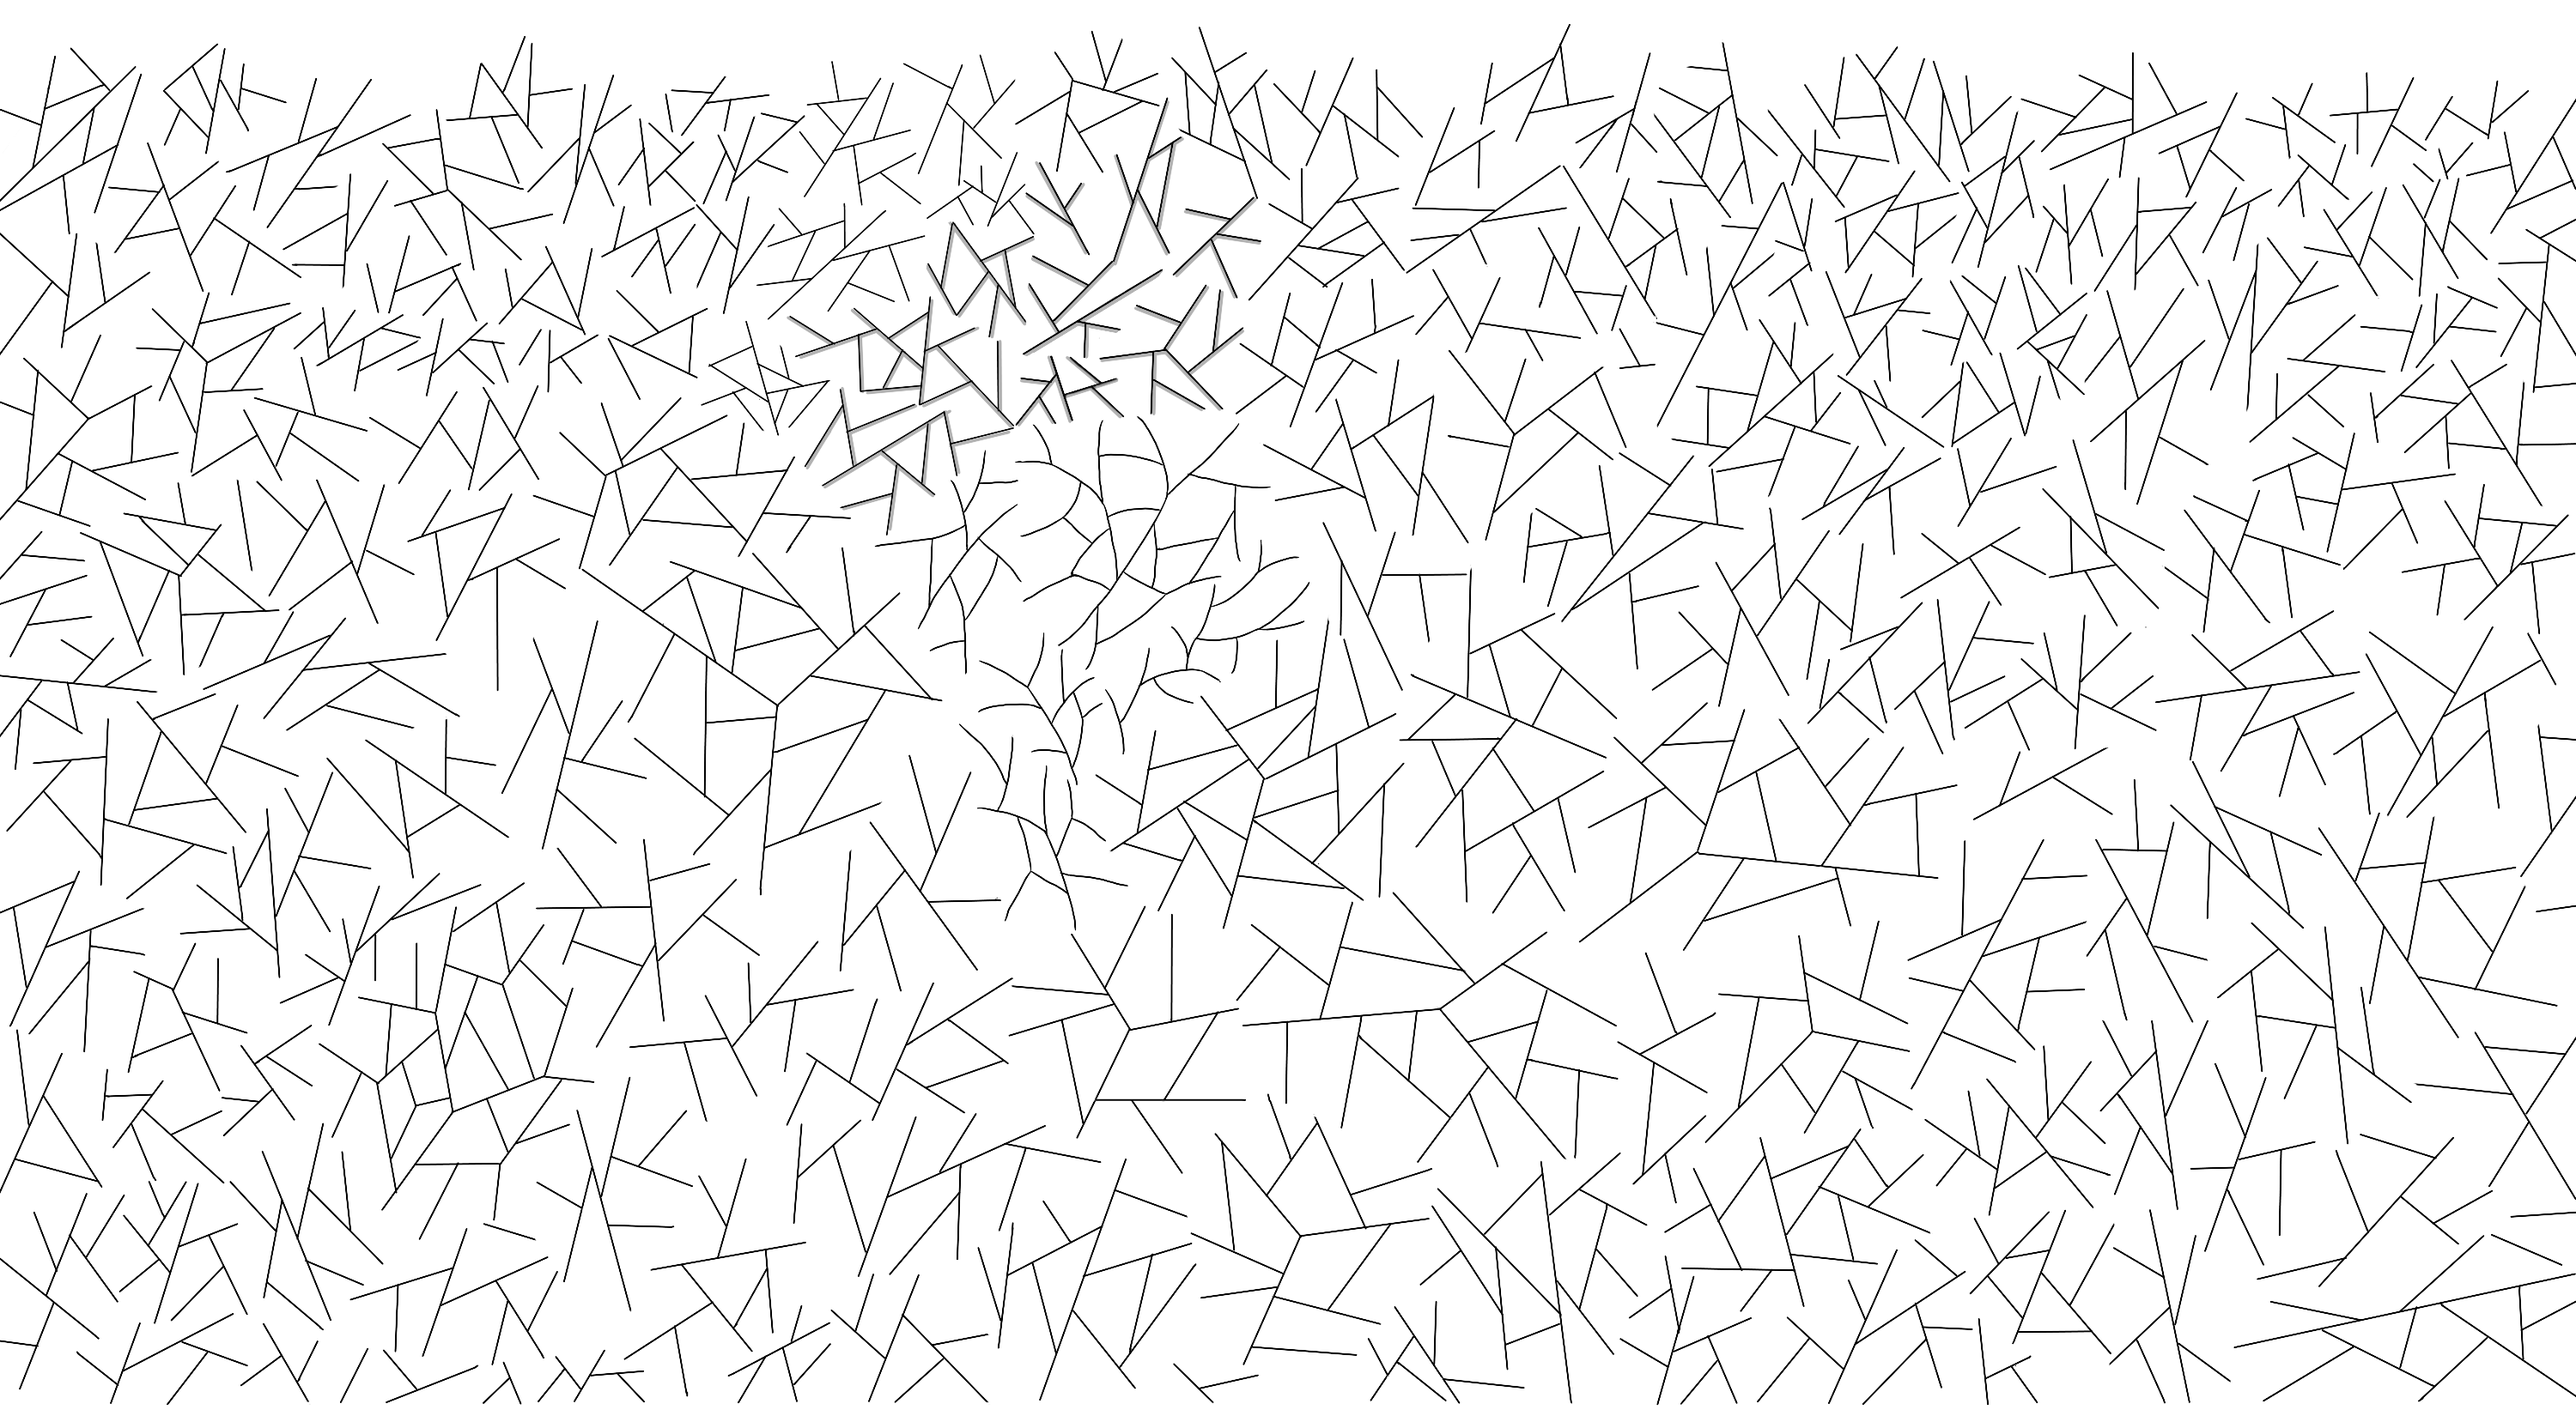
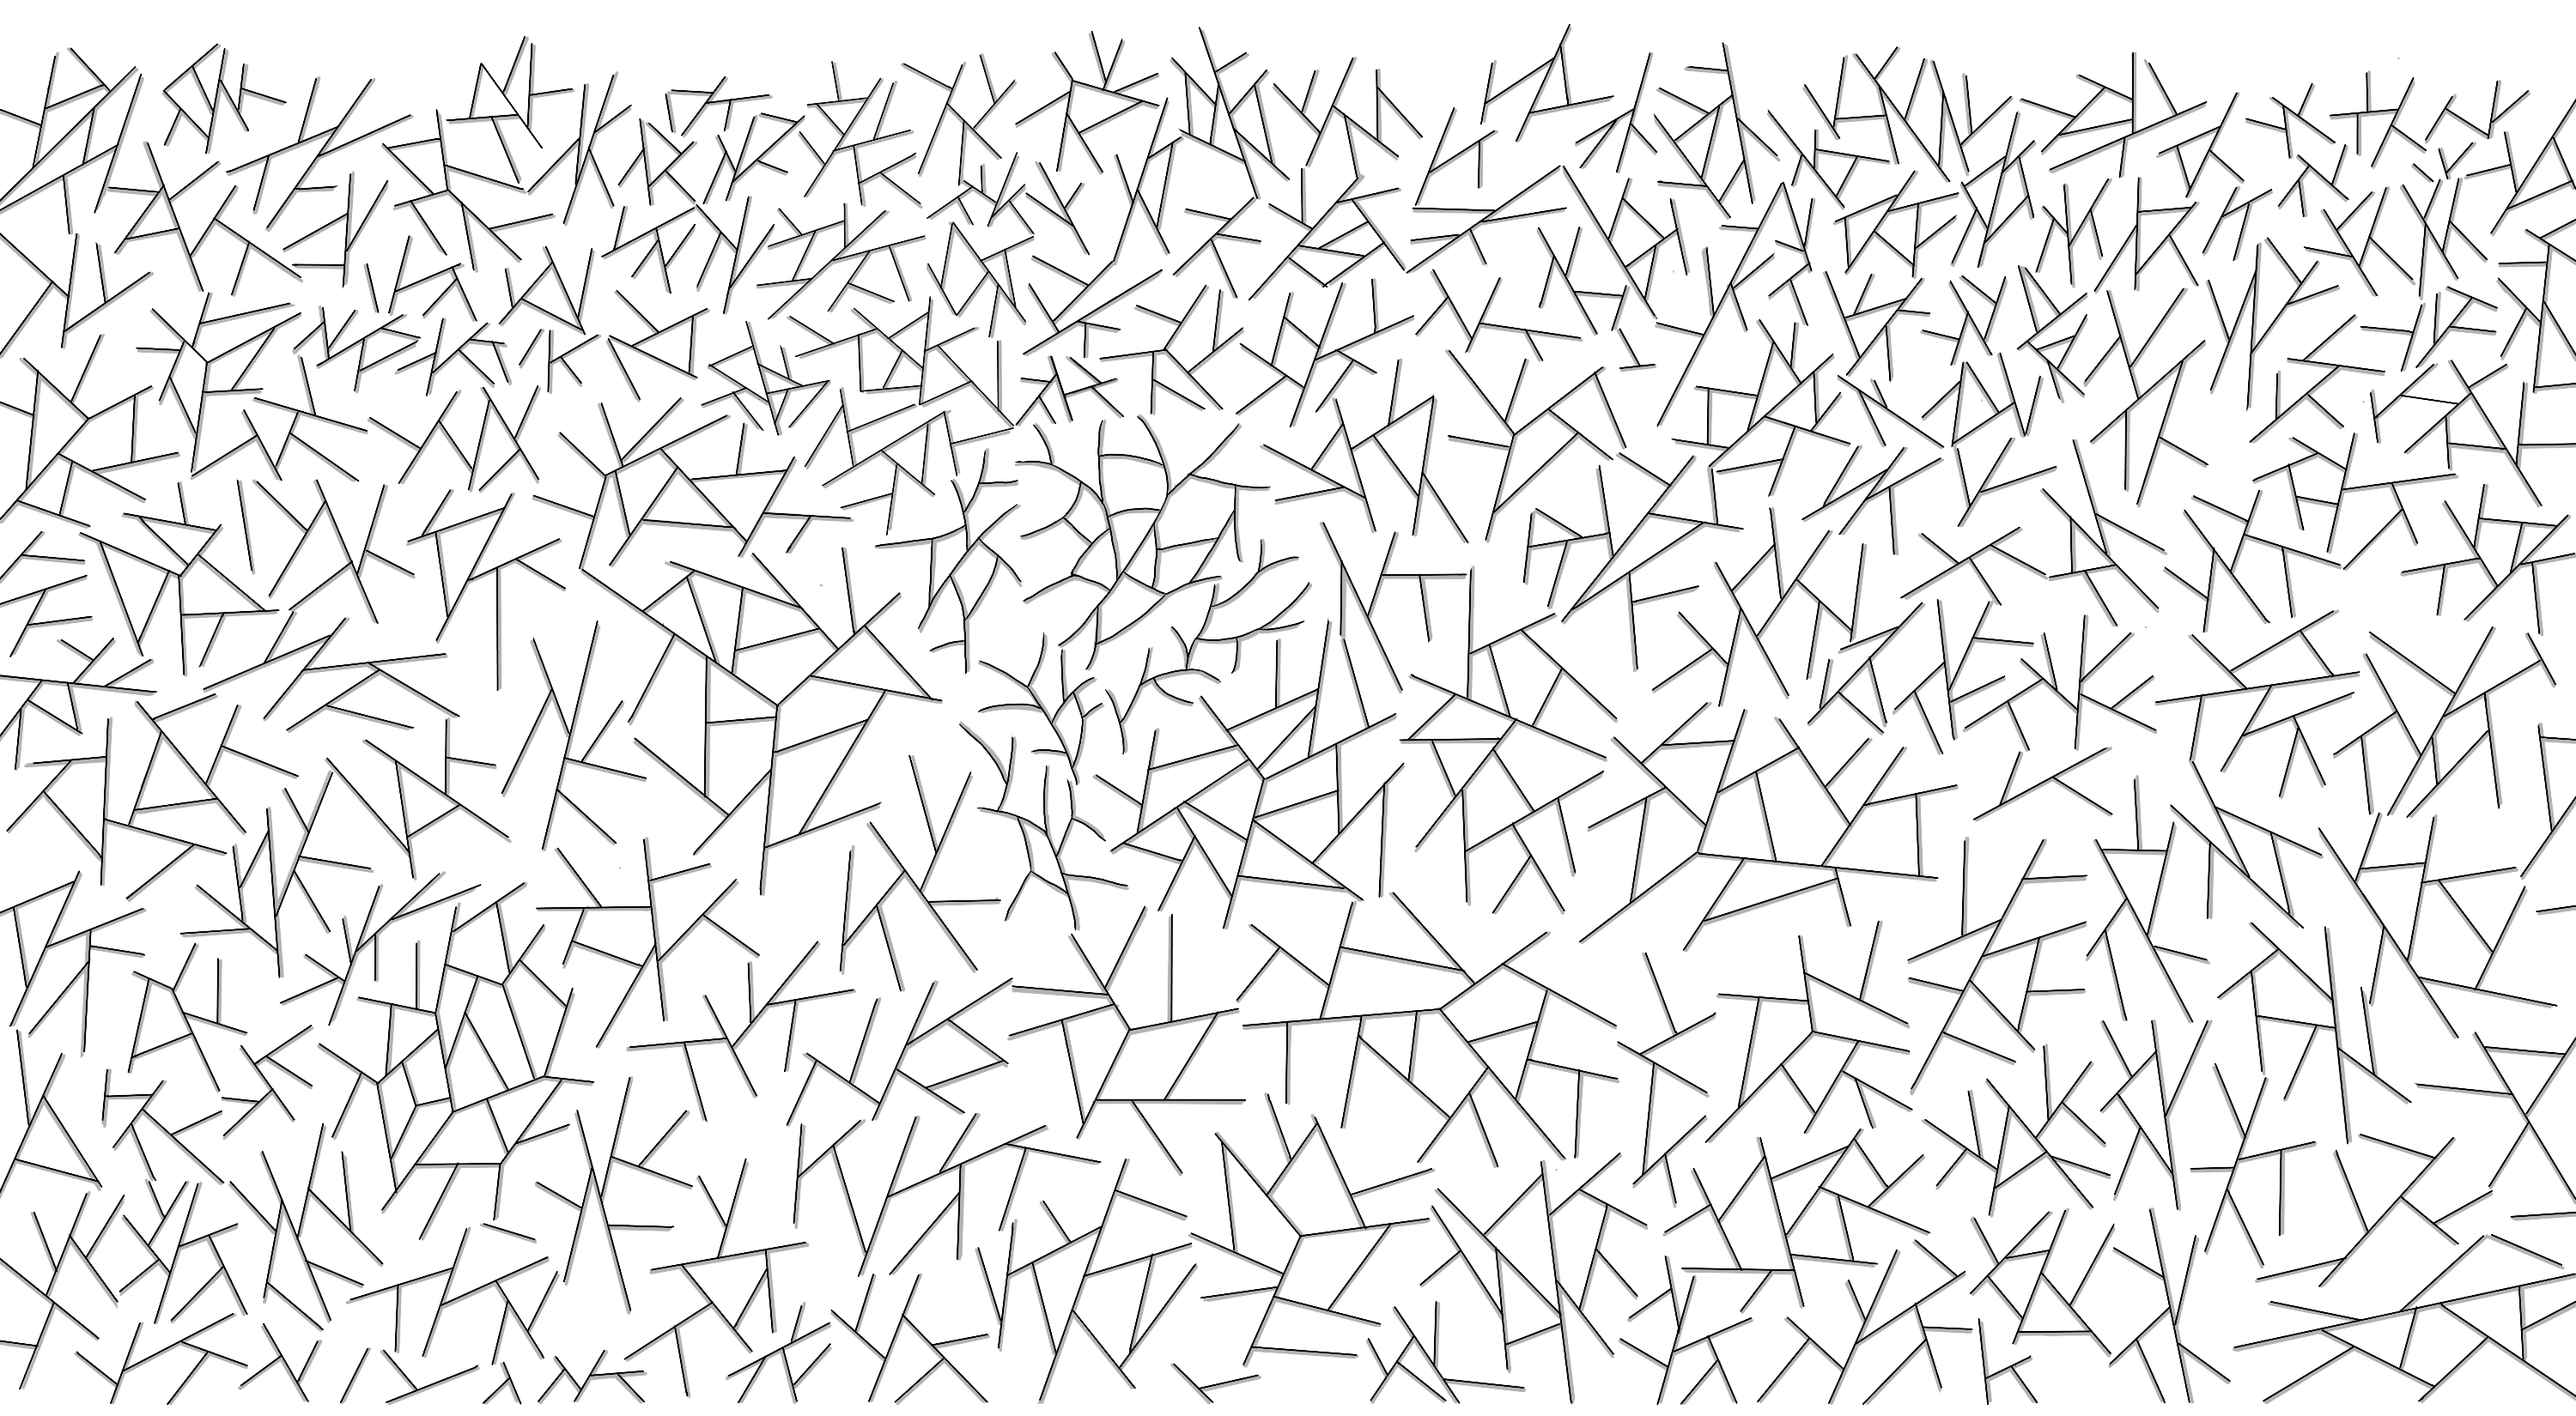
beta v0.17

diff --git a/script.js b/script.js
@@ -8,6 +8,7 @@ var exp = 10 + 20+ 40+80+160+320+640+1280+2560+5120;
 var doubleMoney = 1;
 var switchHit = true;
 var bossBonus = false;
+let countAutoHit = 0;
 
 
 //C-Current(текущий) R-Ratio(коэффициент) S-Start(стартовое) P-Previos(Предыдующий)
@@ -42,10 +43,10 @@ var hitPlusOne = {name: "hitPlusOne",
     text: "+1 удару"
 };
 
-var autoHitOne = {name: "autoHitOne", cost: {base: 30, calc: 30, current: 30}, level: 0, typeValue: "auto", value: 1, openingLayer: 25, switch: "off", expBonus: 0.1, func: () => upgradesFunc("autoHitOne"), freeUp: false, img: "helmet-pickaxe_transparent_450x450.png", text: "+1 Автоудар раз в секунду"};
+var autoHitOne = {name: "autoHitOne", cost: {base: 30, calc: 30, current: 30}, level: 0, typeValue: "auto", value: 1, openingLayer: 25, switch: "off", expBonus: 0.1, func: () => upgradesFunc("autoHitOne"), freeUp: false, img: "helmet-pickaxe_transparent_450x450.png", autoImg: "pickaxe_transparent_390x390.png", text: "+1 Автоудар раз в секунду"};
 var profitPlusOne = {name: "profitPlusOne", cost: {base: 100, calc: 100, current: 100}, level: 0, typeValue: "profit", value: 1, openingLayer: 75, switch: "off", expBonus: 0.05, func: () => upgradesFunc("profitPlusOne"), freeUp: false, img: "helmet5.png", text: "+1🪙 к прибыли"};
 var hitPlusTen = {name: "hitPlusTen", cost: {base: 500, calc: 500, current: 500}, level: 0, typeValue: "hit", value: 10, openingLayer: 150, switch: "off", expBonus: 0.15, func: () => upgradesFunc("hitPlusTen"), freeUp: false, img: "drill_transparent_450x450.png", text: "+10 удару"};
-var autoHitTen = {name: "autoHitTen", cost: {base: 2500, calc: 2500, current: 2500}, level: 0, typeValue: "auto", value: 10, openingLayer: 300, switch: "off", expBonus: 0.3, func: () => upgradesFunc("autoHitTen"), freeUp: false, img: "helmetDrill.png", text: "+10 Автоударов в секунду"};
+var autoHitTen = {name: "autoHitTen", cost: {base: 2500, calc: 2500, current: 2500}, level: 0, typeValue: "auto", value: 10, openingLayer: 300, switch: "off", expBonus: 0.3, func: () => upgradesFunc("autoHitTen"), freeUp: false, img: "helmetDrill.png", autoImg: "drill_transparent_450x450.png", text: "+10 Автоударов в секунду"};
 var autoHit100 = {name: "autoHitOneHundred", cost: {base: 20000, calc: 20000, current: 20000}, level: 0, typeValue: "auto", value: 100, openingLayer: 750, switch: "off", expBonus: 0.4, func: () => upgradesFunc("autoHitOneHundred"), freeUp: false, img: "helmet5.png", text: "+100 Автоударов в секунду"};
 
 var upgrades = [hitPlusOne, autoHitOne, profitPlusOne, hitPlusTen, autoHitTen, autoHit100]; //массив с объектами улучшений;
@@ -86,9 +87,11 @@ startingValues();
 interval();
 moneyChanges(0);
 
-var autoInterval;
+var autoIntervalOne, autoIntervalTen, autoInterval100;
 function interval(){
-    autoInterval = setInterval(() => hit(autoHit,"auto") , (1000*speedAutoHit.value));
+    autoIntervalOne = setInterval(() => hit(autoHitOne) , (3000*speedAutoHit.value));
+    autoIntervalTen = setInterval(() => hit(autoHitTen) , (4500*speedAutoHit.value));
+    autoInterval100 = setInterval(() => hit(autoHit100) , (7500*speedAutoHit.value));
 }
 
 function startingCreationGUI(){
@@ -196,14 +199,17 @@ function expBonus(){
     updateInfo();
 }
 
-function hit(damage, type) {
+function hit(object) {
     if (switchHit){
-        if(type == "hand"){counter++;} 
-        if(damage > 0){trembling();}
-        layer.hp.current -= damage;
-        toStyle("#hpBarID", "width", 100/layer.hp.round * layer.hp.current + "%");
-        toStyle("#cracksID", "height", 100-(100/layer.hp.round * layer.hp.current) + "%");
-        finishLevel();
+        if(object.typeValue == "hit"){counter++; damage(object);}
+        else {
+            if(object.level > 0){
+                animationAutoHit(object);
+            }
+        } 
+
+        
+
         updateInfo();
     }
     if (!document.getElementById("bossLevelBonusID").hidden && autoBonus.enabled == true){
@@ -211,6 +217,36 @@ function hit(damage, type) {
         let raznica = autoBonus.value - (currentSeconds - currentSecondsStart);
         toChangeText("timeID", "Автовыбор через: " + raznica + " секунд")
     }
+}
+
+function damage(object){
+    trembling();
+    if (object.typeValue == "hit"){
+        layer.hp.current -= handHit;
+    } else {
+        layer.hp.current -= object.value * object.level;
+    }
+    toStyle("#hpBarID", "width", 100/layer.hp.round * layer.hp.current + "%");
+    toStyle("#cracksID", "height", 100-(100/layer.hp.round * layer.hp.current) + "%");
+    finishLevel();
+    updateInfo();
+}
+
+function animationAutoHit(autoDamage){
+    let id = countAutoHit++;
+    toCreateTag("body", "img", "imgID"+id, "imgAutoHit", "", "hit-function");
+        toStyle("#imgID"+id, "left", Math.floor(Math.random()*100)+"%")
+        document.getElementById("imgID"+id).src = "img/"+autoDamage.autoImg;
+        setTimeout(function(){
+            let rotate = Math.floor(Math.random()*50)+1075;
+            toStyle("#imgID"+id, "transform", "rotate("+rotate+"deg)");
+            toStyle("#imgID"+id, "top", "60%");
+            setTimeout(function(){
+                toStyle("#imgID"+id, "opacity", "0%");
+                    damage(autoDamage);
+                    setTimeout(function(){document.getElementById("imgID"+id).remove()}, 3000);
+            }, 3010);
+        }, 200);
 }
 
 function trembling(){
@@ -350,7 +386,9 @@ function upgradesExpFunc(upgrade){
             } else if (upgrade == "autoBonus"){
                 if (!autoBonus.enabled){autoBonus.enabled = true};
             } else if (upgrade == "speedAutoHit"){
-                clearInterval(autoInterval);
+                clearInterval(autoIntervalOne);
+                clearInterval(autoIntervalTen);
+                clearInterval(autoInterval100);
                 interval();
             }
         } 

diff --git a/style.css b/style.css
@@ -123,12 +123,15 @@ body {
    min-height: 300px;
    height: 100vh;
    width: 100vw;
-   background-image: url(img/background-4x2.png);
+   background-image: url(img/background.png);
    background-position: 0% 0%;
-   background-size: 2000px;
+   background-size: 1200px;
    height: 100%;
    transition: background-position 0.7s ease-out;
-   backdrop-filter: grayscale(60%);
+   backdrop-filter: grayscale(70%);
+   backdrop-filter: saturate(30%);
+   /* backdrop-filter: hue-rotate(10deg); */
+   backdrop-filter: blur(1px);
    margin: 0%;
 }
 #bossLevelBonusID {
@@ -151,4 +154,18 @@ body {
 #rebootExpDesID {
    width: 100%;
    margin: 0px;
+}
+
+.imgAutoHit{
+   position: absolute;
+   height: 10%;
+   top: -10%;
+   opacity: 100%;
+   /* transform: rotate(180deg); */
+   /* transform: translateY(100px); */
+   transition: top 3s linear, transform 3s linear, opacity 3s ease-in;
+}
+
+#menuForCoins{
+   z-index: 2;
 }

diff --git a/index.html b/index.html
@@ -11,7 +11,7 @@
             <img id="layerImgID" src="img/layer.png" alt=""> 
             <img id="cracksID" src="img/cracks.png" alt="">
         </div>
-        <div id="hitZoneID" style="position: fixed; height: 100%; width: 100%;" onclick="hit(handHit, 'hand')"></div>
+        <div id="hitZoneID" style="position: fixed; height: 100%; width: 100%;" onclick="hit(hitPlusOne)"></div>
         <h1>MinerGame</h1>
 
         <h2>Текущая глубина: <div id="depthLevelID" class="inline-block">0</div></h2>
@@ -33,7 +33,7 @@
             <div id="timeID"></div>
         </div>
 
-        <footer>© by MrDesert - beta v0.16</footer>
+        <footer>© by MrDesert - beta v0.17</footer>
 
         <script src="main.js"></script>
         <script src="script.js"></script>
